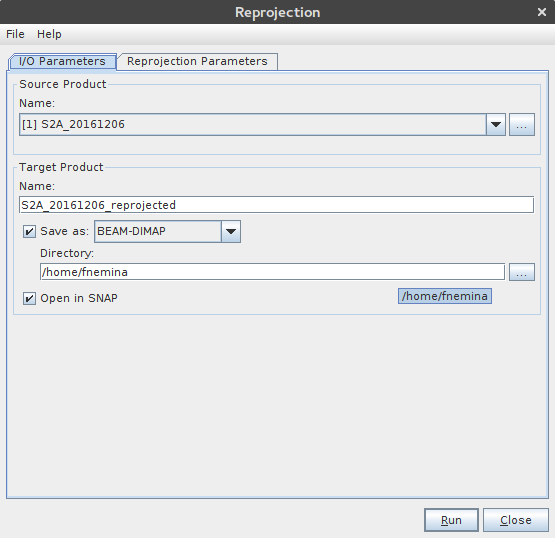
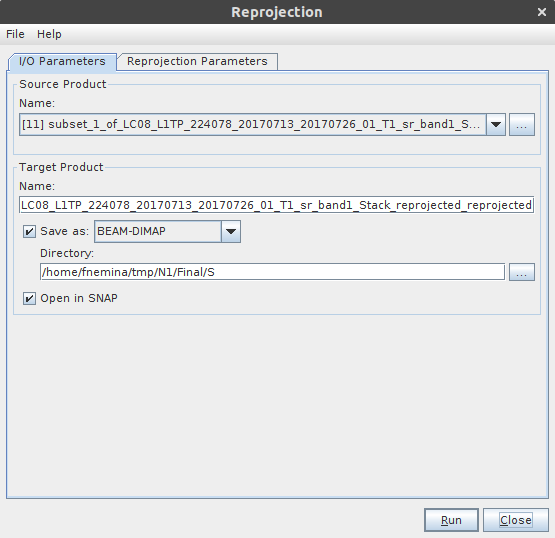
Se agregan las imagenes del resto de la guia #3.

diff --git a/Nivel1-A/Documentos/Guia/guia3.tex b/Nivel1-A/Documentos/Guia/guia3.tex
@@ -1,61 +1,55 @@
 \chapter{Adquisición de datos}
 
-Esta clase tiene como objetivo comprender los pasos básicos para adquirir y procesar imágenes satelitales. Para ello se descargarán imágenes de la web del \emph{level-2 collection} del USGS y se procesarán para poder ser utilizadas en el SNAP.
+Esta clase tiene como objetivo comprender los pasos básicos para adquirir imágenes satelitales. Para ello se descargarán imágenes de la web del  USGS y se procesarán para poder ser utilizadas en el SNAP.
 
 \section{Descarga de imágenes}
 
-Para descargar imágenes utilizaremos el catálogo del \href{https://earthexplorer.usgs.gov/}{Earth Explorer}\footnote{\href{https://earthexplorer.usgs.gov/}{https://earthexplorer.usgs.gov/}}. Para esto debe ingresar a la página y registrarse.
+Para descargar imágenes utilizaremos el catálogo del \href{https://earthexplorer.usgs.gov/}{USGS}\footnote{\href{https://earthexplorer.usgs.gov/}{https://earthexplorer.usgs.gov/}}. Para utilizarló deberá registrarse en el sitio web. Diríjase luego a la página y en la pestaña \texttt{Seach Criteria} seleccione \texttt{Address/Place} y escriba \texttt{Iguazú} haciendo luego click en \menu{Show} (Figura \ref{fig:busqueda}).
 
 \begin{figure}[h!]
     \centering
-    \includegraphics[width=0.7\textwidth]{fig:busqueda.png}
-    \caption{Selección de un área de interés y rango de fechas en el catálogo del \emph{USGS}. Puede observarse el área de busqueda en rojo, el área seleccionada en azul y la selección temporal en verde.}
+    \includegraphics[width=0.6\textwidth]{fig:busqueda.png}
+    \caption{Busqueda en el catálogo del \emph{USGS}. Puede observarse el área de busqueda en rojo, el área seleccionada en azul y la selección temporal en verde.}
     \label{fig:busqueda}
 \end{figure}
 
-Diríjase a la página y en la pestaña \texttt{Seach Criteria} seleccione \texttt{Address/Place} y escriba \texttt{Iguazú} haciendo luego click en \menu{Show} . Luego haga click sobre el nombre \texttt{Misiones Province, Argentina} para seleccionar dicha zona en el mapa (Figura \ref{fig:busqueda}).
-
-Seleccione luego en \menu{Data Range} las fechas 1 de julio de 2017 y 31 de julio de 2017.
-
-\textbf{Observación:} Es posible también dibujar una zona de interés directamente sobre el mapa.
-\textbf{Observación:} Para eliminar un punto del mapa haga click en la cruz roja que se encuentra al lado de el en el menú.
+Luego haga click sobre el nombre \texttt{Misiones Province, Argentina} para seleccionar dicha zona en el mapa. Seleccione luego en \menu{Data Range} las fechas 1 de julio de 2017 y 31 de julio de 2017.
 
 Haga click en \menu{Data Sets} y en el cuadro \texttt{Data Set Search:} escriba \texttt{Landsat 8} y seleccione del menú la opción \texttt{Landsat 8 OLI/TIRS C1 Level-2} (Figura \ref{fig:dataset}) para seleccionarlo. Haga luego click en \menu{Results}.
 
 \begin{figure}[h!]
     \centering
-    \includegraphics[width=0.7\textwidth]{fig:dataset.png}
+    \includegraphics[width=0.6\textwidth]{fig:dataset.png}
     \caption{Selección de un set de datos en el catálogo del \emph{USGS}. Puede observarse el área de busqueda en rojo y los set de datós seleccionados en verde.}
     \label{fig:dataset}
 \end{figure}
 
-A la izquierda de la pantalla aparecerá una lista de productos. Busque de ellos el de nombre \emph{LC08\_L1TP\_224078\_20170713\_20170726\_01\_T1
-} del 13 de julio del 2017, pertenenciente al path 224 y el row 78. Haga click sobre \menu{Order scene}. (Figura \ref{fig:descarga})
+A la izquierda de la pantalla aparecerá una lista de productos. Busque de ellos el del 13 de julio del 2017, del path 224 y el row 78. Haga click sobre \menu{Order scene} (Figura \ref{fig:descarga}).
 
-\begin{figure}[h!]
+\begin{figure}[H]
     \centering
-    \subfloat[]{\includegraphics[width=0.7\textwidth]{fig:descarga.png}}
+    \subfloat[]{\includegraphics[width=0.6\textwidth]{fig:descarga.png}}
     \\
     \subfloat[]{\includegraphics[scale=0.5]{fig:operaciones.png}}
-    \caption{Selección de producto para la descarga en el catálogo \emph{Vertex} del \emph{USGS}. En rojo el botón para ver el pedido. Herramientas del catálogo. De izquierda a derecha en -b- se observa: Footprint, Show Browse Overlay, Compare Browse, Show Metadata and Brose, Order Scene  y Exlude escene from Results.}
+    \caption{Selección de producto para la descarga en el catálogo \emph{Vertex} del \emph{USGS}. En rojo el botón para ver el pedido. Herramientas del catálogo. De izquierda a derecha se observa: Footprint, Show Browse Overlay, Compare Browse, Show Metadata and Brose, Order Scene  y Exlude escene from Results.}
     \label{fig:descarga}
 \end{figure}
 
 Para corroborar el pedido haga click en \menu{View Item Basket} y luego en \menu{Proceed to Checkout}. Finalmente deberá solicitar la imagen haciendo click en \menu{Submit Order}.
 
-El producto descargado pertenece a una serie de producto \emph{on demand} \footnote{A demananda.}. Cuando el mismo esté disponible para descargar se le enviará un correo electrónico notificandolo \footnote{Recibirá 3 correos electrónicos en total: dos confirmando el pedido y uno cuando la descarga esté disponible}. El asunto será
+El producto descargado pertenece a una serie de productos a demanda.  Cuando  esté disponible para descargar se le enviará un correo electrónico notificandolo \footnote{Recibirá 3 correos electrónicos en total: dos confirmando el pedido y uno cuando la descarga esté disponible}. El asunto será
 
 \begin{center}
 \texttt{USGS ESPA product request order number [] available for download}
 \end{center}
 
-con \texttt{[]]} el número de pedido. Haga click en el link dentro del correo y en la página que se abre seleccione su pedido en la columna \texttt{Order ID}. Finalmente haga click en \texttt{Download} en la columna \texttt{Product URL} para descargar la imagen.
+con \texttt{[]} el número de pedido. Haga click en el link dentro del correo y en la página que se abre seleccione su pedido en la columna \texttt{Order ID}. Finalmente haga click en \texttt{Download} en la columna \texttt{Product URL} para descargar la imagen.
 
 \begin{figure}[h!]
     \centering
-    \subfloat[]{\includegraphics[width=0.7\textwidth]{fig:descarga2.png}}
+    \subfloat[]{\includegraphics[width=0.6\textwidth]{fig:descarga2.png}}
     \\
-    \subfloat[]{\includegraphics[width=0.7\textwidth]{fig:descarga3.png}}
+    \subfloat[]{\includegraphics[width=0.6\textwidth]{fig:descarga3.png}}
     \caption{Descarga de productos una vez obtenido el pedido.}
     \label{fig:descarga2}
 \end{figure}
@@ -84,11 +78,21 @@ Dentro de la carpeta descomprimida las distintas bandas de la imagen se encuentr
 
 Aparecerán en el \emph{Product explorer} a la derecha y podrá visualizar las bandas por separado.
 
-Vaya a \menu{Radar > Coregistration > Stack tools > Create Stack} y en la pestañá \menu{1-ProductSet-Reader} haga click en \menu{Add oppened}. Usando los botones \menu{Move up} y \menu{Move down} ordene las bandas según su nombre.
+Vaya a \menu{Radar > Coregistration > Stack tools > Create Stack} y en la pestañá \menu{1-ProductSet-Reader} haga click en \menu{Add oppened}. Usando los botones \menu{Move up} y \menu{Move down} ordene las bandas según su nombre (Figura \ref{fig:stack1}).
 
-En la pestaña \menu{2-CreateStack} seleccione la opción \emph{Product Geolocation} para el parámetro \menu{Initial Offset method}.
+En la pestaña \menu{2-CreateStack} seleccione la opción \emph{Product Geolocation} para el parámetro \menu{Initial Offset method} (Figura \ref{fig:stack2}).
 
-Finalmente en la pestaña \menu{3-Write} elija el nombre del archivo de salida y la carpeta donde se guardarán los datos. Haga luego click en \menu{Run}. El resultado se agregará al \emph{Product explorer}.
+Finalmente en la pestaña \menu{3-Write} elija el nombre del archivo de salida y la carpeta donde se guardarán los datos. Haga luego click en \menu{Run}. El resultado se agregará al \emph{Product explorer}(Figura \ref{fig:stack3}).
+
+\begin{figure}[h!]
+    \centering
+    \subfloat[1-ProductSet-Reader]{\includegraphics[width=0.4\textwidth]{fig:stack1.png}\label{fig:stack1}}
+    \hspace{1cm}
+    \subfloat[2-CreateStack]{\includegraphics[width=0.4\textwidth]{fig:stack2.png}\label{fig:stack2}}\\
+    \subfloat[3-Write]{\includegraphics[width=0.4\textwidth]{fig:stack3.png}\label{fig:stack3}}
+    \caption{Apilado de productos en el SNAP usando la herramienta \menu{Create Stack}.}
+
+\end{figure}
 
 \section{Propiedades de la imagen}
 Es de utilidad editar las propiedades de la imagen para agregar los nombres de las bandas, su longitud de onda central y tipo de dato.
@@ -97,11 +101,16 @@ En la sección de bandas de la imagen creada, haga click derecho sobre
 \begin{center}
 \texttt{band\_1\_mst\_01Jan2000}
 \end{center}
-y luego seleccione \menu{Properties}. En al ventana que se despliega es posible cambiar el nombre de la banda, la unidad en la que está medida, el valor digital no valido, la longitud de onda central de la banda y su ancho.
+y luego seleccione \menu{Properties}. En al ventana que se despliega es posible cambiar el nombre de la banda, la unidad en la que está medida, el valor digital no valido, la longitud de onda central de la banda y su ancho (Figura \ref{fig:prop}).
 
-Es posible además conocer el tamaño, en píxeles, de la imagen.
+\begin{figure}[h!]
+    \centering
+    \includegraphics[width=0.35\textwidth]{fig:prop.png}
+    \caption{Propiedades de una banda de la imagen. Se observan los valores de nombre y longitud de onda, entre otros.}
+    \label{fig:prop}
+\end{figure}
 
-Edite los campos \emph{Name} con el valor \texttt{ca} y el campo \emph{Spectral Wavelength} con el valor $442$. Repita el proceso para el resto de las bandas (Tabla \ref{tab:landsat8}).
+Edite los campos \emph{Name} con el valor \texttt{ca} y el campo \emph{Spectral Wavelength} con el valor \texttt{442}. Repita el proceso para el resto de las bandas (Tabla \ref{tab:landsat8}).
 
 \begin{table}[h!]
   \centering
@@ -125,9 +134,17 @@ Para guardar los cambios realizados en la imagen haga click derecho sobre ella y
 \section{Subset espacial y espectral}
 Es posible hacer un subset, tanto espacial como espectral, de la imagen. Esto es de utilidad para trabajar solo con nuestra región de interés reduciendo el tamaño de la imagen y por lo tanto los tiempos de procesamiento.
 
-Para hacerlo seleccione la imagen apilada y dirijasé a \menu{Raster > Subset}. En la pestañá \menu{Spatial subset} seleccione la pestaña \menu{Geo Coordinates}.
+Para hacerlo seleccione la imagen apilada y dirijasé a \menu{Raster > Subset}. En la pestañá \menu{Spatial subset} seleccione la pestaña \menu{Geo Coordinates} (Figura \ref{fig:subset}).
 
-Haga un recorte entre las coordenadas geográficas
+\begin{figure}[h!]
+    \centering
+    \includegraphics[width=0.45\textwidth]{fig:subset.png}
+    \caption{Subset espacial de una imagen Landsat 8 por coordenadas geográficas.}
+    \label{fig:subset}
+\end{figure}
+
+Haga un recorte introduciendo las coordenadas geográficas
+
 \begin{itemize}
     \item North latitude bound: -25.4
     \item West longitude bound: -54.8
@@ -135,8 +152,23 @@ Haga un recorte entre las coordenadas geográficas
     \item East longitude bound: -54.2
 \end{itemize}
 
+y haciendo click en \menu{Ok}.
+
+Es posible también hacer un subset de bandas eligiendolas de la pestaña \menu{Band subset}.
+
 \section{Reproyección}
-Para algunas aplicacione la proyección por defecto de la imagen puede no ser la más indicada. Para cambiar la proyección dirijasé a \menu{Raster > Geometric operations > Reprojection}. Seleccione en la pestaña \menu{I/O parameters} la imagen recortada como imagen de entrada. Puede aquí seleccionar el nombre y la carpeta del archivo de salida. Utilice el nombre
+Para algunas aplicacione la proyección por defecto de la imagen puede no ser la más indicada. Para cambiar la proyección dirijasé a \menu{Raster > Geometric operations > Reprojection} (Figura \ref{fig:repro}). 
+
+\begin{figure}[h!]
+    \centering
+    \subfloat[I/O Parameters]{\includegraphics[width=0.4\textwidth]{fig:reproj1.png}}
+    \hspace{1cm}
+    \subfloat[Processing parameters]{\includegraphics[width=0.4\textwidth]{fig:reproj2.png}}
+    \caption{Herramienta de reproyección del SNAP. La imagen se proyecta en coordenadas geográficas.}
+    \label{fig:repro}
+\end{figure}
+
+Seleccione en la pestaña \menu{I/O parameters} la imagen recortada como imagen de entrada. Puede aquí seleccionar el nombre y la carpeta del archivo de salida. Utilice el nombre
 
 \begin{center}
   \directory{LC08\_224-078\_2017-07-13.dim}

diff --git a/Nivel1-A/Documentos/Guia/guia1.tex b/Nivel1-A/Documentos/Guia/guia1.tex
@@ -24,7 +24,7 @@ Descomprima el archivo \directory{material.zip}. Abra el programa SNAP, allí en
 
 \begin{figure}[h!]
     \centering
-    \includegraphics[width=0.7\textwidth]{fig:int.png}
+    \includegraphics[width=0.6\textwidth]{fig:int.png}
     \caption{Interfaz gráfica del usuario. El área de visualización -en azul- con el \menu{Product Explorer} a la izquierda -en rojo-.}
     \label{fig:int}
 \end{figure}
@@ -58,7 +58,7 @@ Es posible visualizar la imagen en color real. Para ello en el \menu{Product Exp
 
 \begin{figure}[h!]
     \centering
-    \includegraphics[scale=0.7]{fig:RGB.png}
+    \includegraphics[scale=0.6]{fig:RGB.png}
     \caption{Ventana de combinación de bandas. Puede eligir una banda para cada canal del monitor (\emph{Red, Green, Blue}) o puede optar por una preseleccionada del menú \emph{Profile}}
     \label{fig:RGB}
 \end{figure}
@@ -67,7 +67,7 @@ Explore la imagen utilizando las herramientas de navegación y zoom (Figura \ref
 
 \begin{figure}[h!]
     \centering
-    \subfloat[]{\includegraphics[width=0.7\textwidth]{fig:mono.png}}
+    \subfloat[]{\includegraphics[width=0.6\textwidth]{fig:mono.png}}
     \\
     \subfloat[]{\includegraphics[scale=0.5]{fig:NAV.png}}
     \caption{Imagen desplegada en el visualizador. Herramientas de navegación. De izquierda a derecha: \menu{Selection tool}, para seleccionar objetos, \menu{Panning tool}, para moverse, y \menu{Zooming tool}, para hacer zoom.}
@@ -123,7 +123,7 @@ Para ver las tres en simultaneo haga click en \menu{Window>Tile Horizontally} mo
 
 \begin{figure}[h!]
     \centering
-    \includegraphics[width=0.7\textwidth]{fig:multiples.png}
+    \includegraphics[width=0.6\textwidth]{fig:multiples.png}
     \caption{Distintas imágenes desplegadas en multiples visualizadores en simultaneo.}
     \label{fig:multiples}
 \end{figure}
